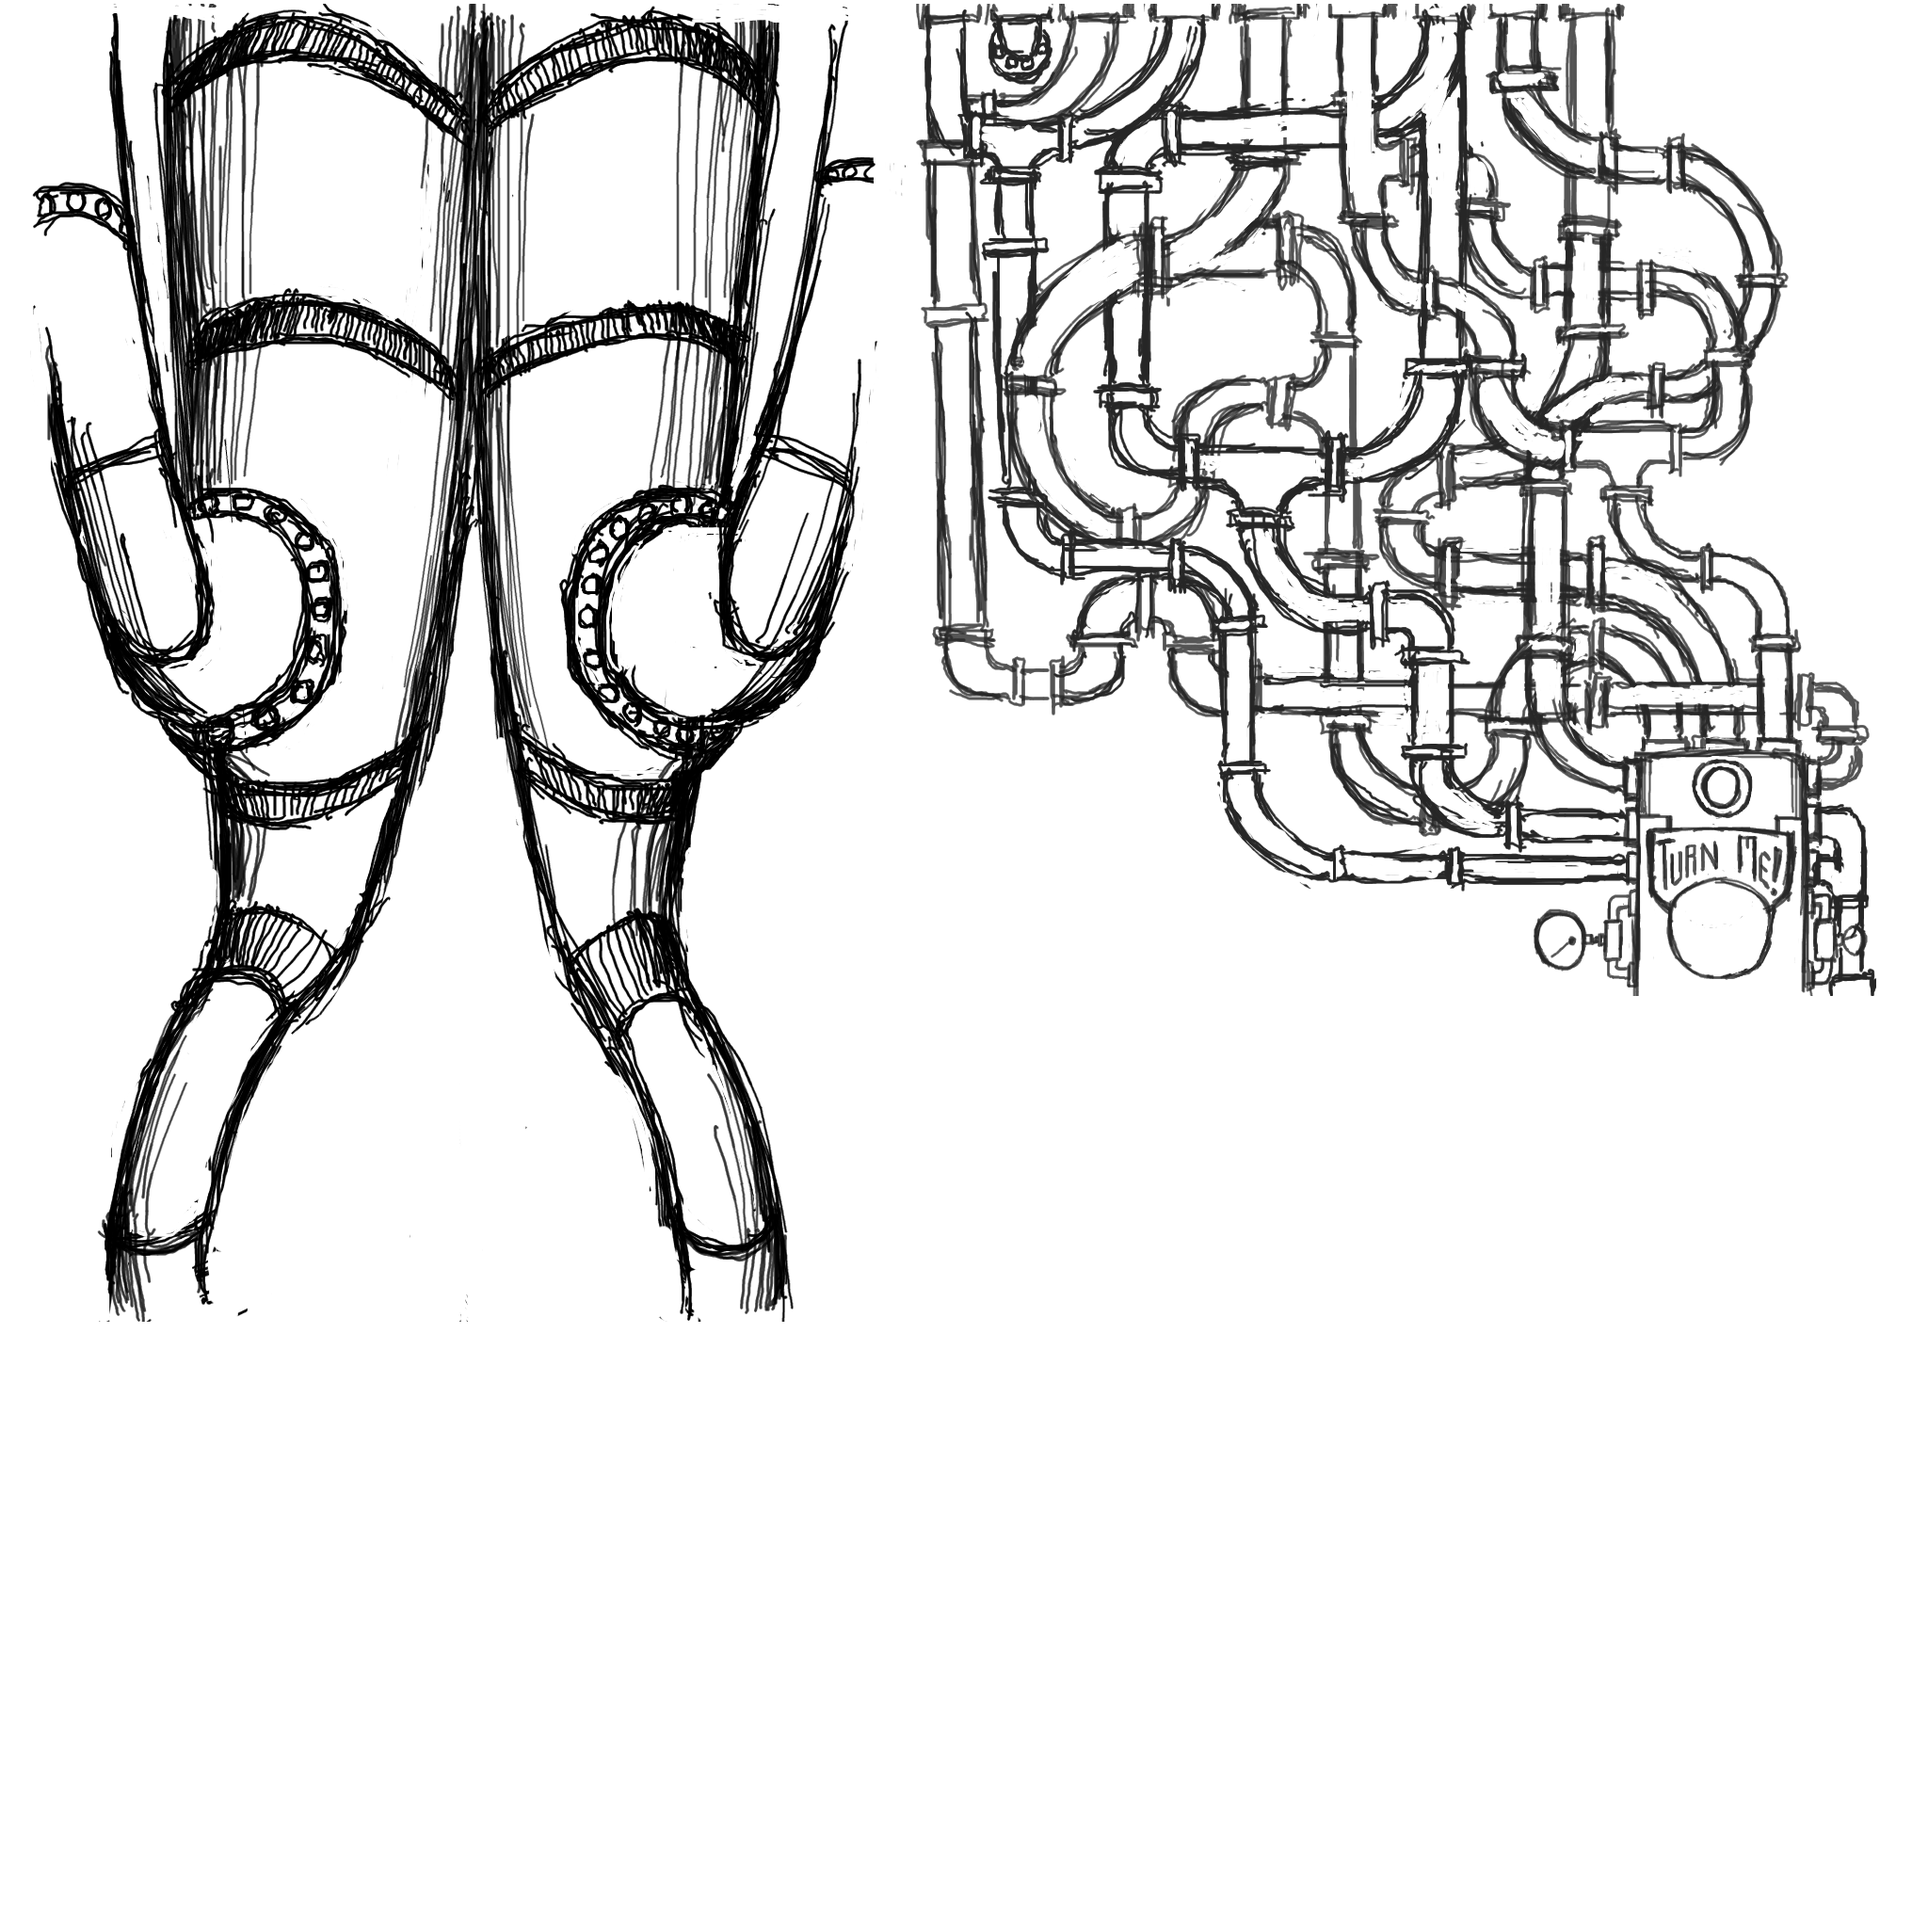
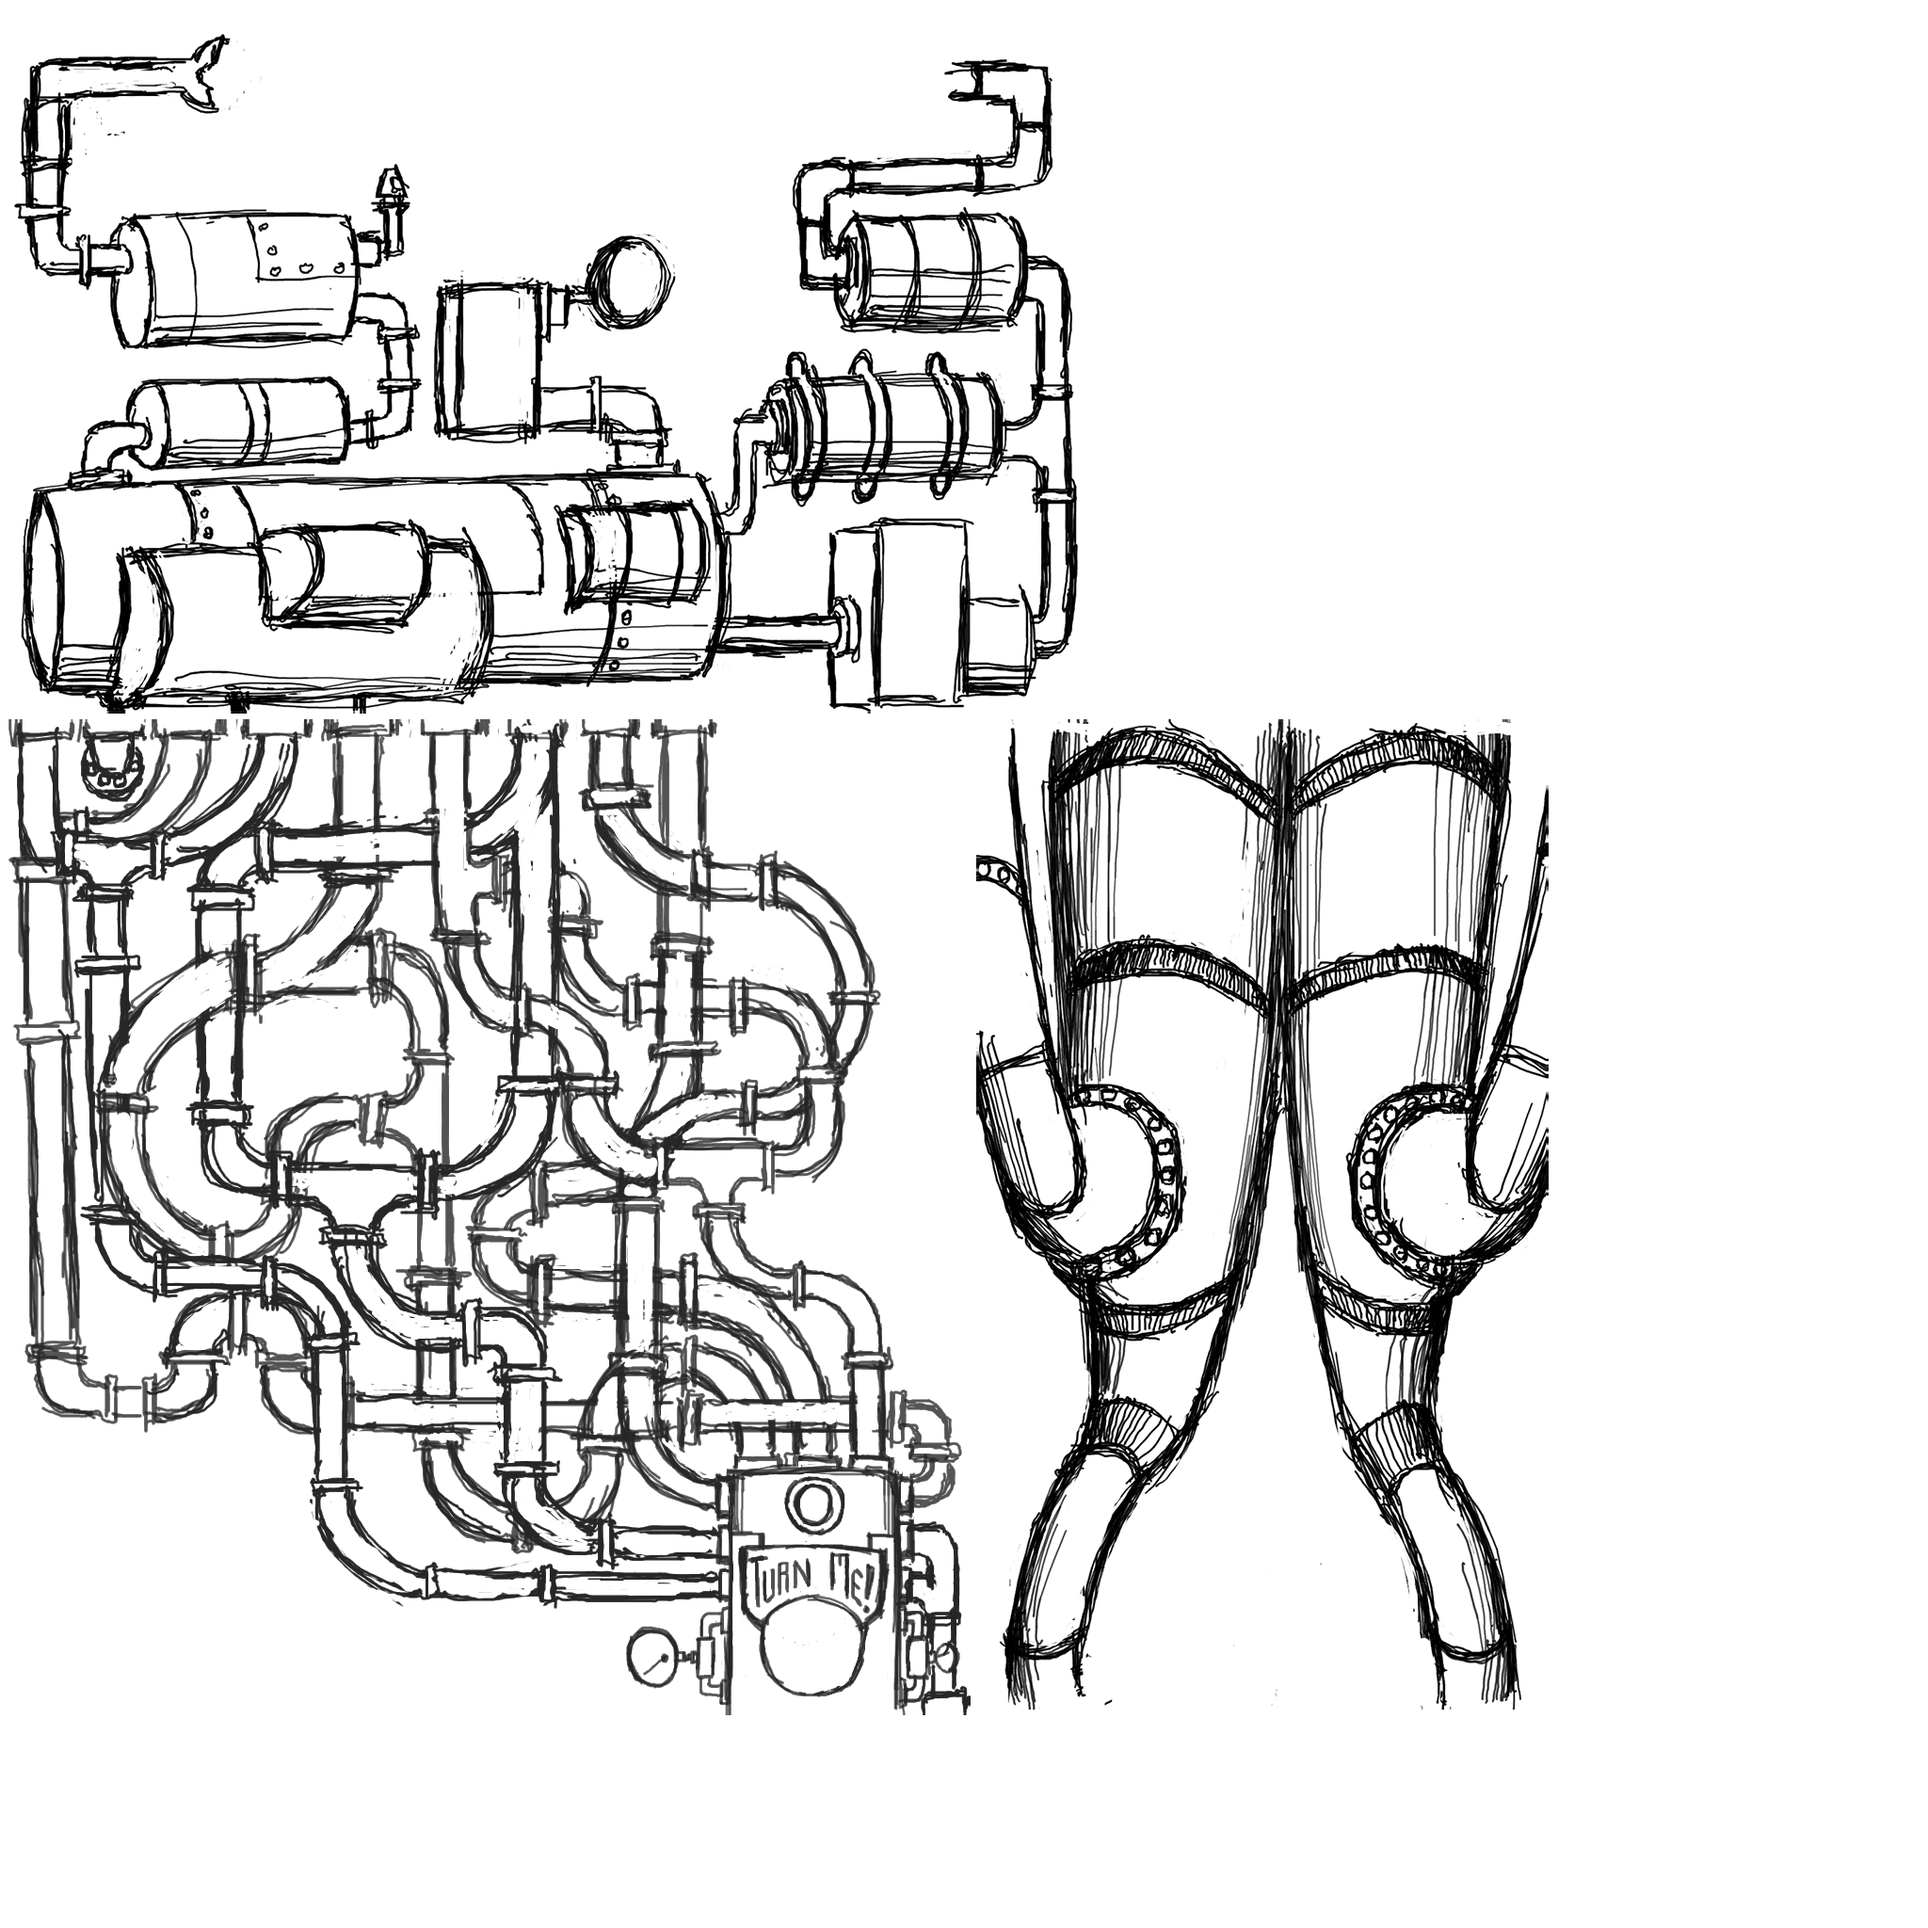
added a chest decal interior

Changed region(s): [[0.0, 0.0, 0.9688, 0.9062]]

diff --git a/werescrewed/src/com/blindtigergames/werescrewed/screens/AlphaScreen.java b/werescrewed/src/com/blindtigergames/werescrewed/screens/AlphaScreen.java
@@ -595,9 +595,11 @@ public class AlphaScreen extends Screen {
 				.getAtlas( "alphabot_knee_in_thigh_out" );
 
 		// level.entityBGList.add(thighSkeleton);
+		Sprite sprite = decals.createSprite( "thigh_mechanisms_and_pipesNOCOLOR" );
+		sprite.setScale(1f/0.75f);
 		thighSkeleton.addBGDecalBack(
-				decals.createSprite( "thigh_mechanisms_and_pipesNOCOLOR" ),
-				new Vector2( -425, -1117 ) );
+				sprite,
+				new Vector2( -345, -1117 ) );
 		// 380,1117
 
 		Vector2 thighPos = new Vector2( -370, -1010 );
@@ -1167,7 +1169,13 @@ public class AlphaScreen extends Screen {
 		addFGSkeleton( chestSkeleton );
 		level.skelFGList.remove( chestSkeleton );
 		level.skelFGList.add( chestSkeleton );
-	}
+		
+		//END FG DECALS
+		
+		//chest_bottomleft_mechanisms75
+		TextureAtlas chest_gear = WereScrewedGame.manager.getAtlas( "chest_pipes_thigh_pipes" );
+		chestSkeleton.addBGDecal( chest_gear.createSprite( "chest_bottomleft_mechanisms75" ), new Vector2(-1800,-1157 ) );
+	}///293,53
 
 	private void leftArm( ) {
 		leftArmScrew = ( PuzzleScrew ) LevelFactory.entities
